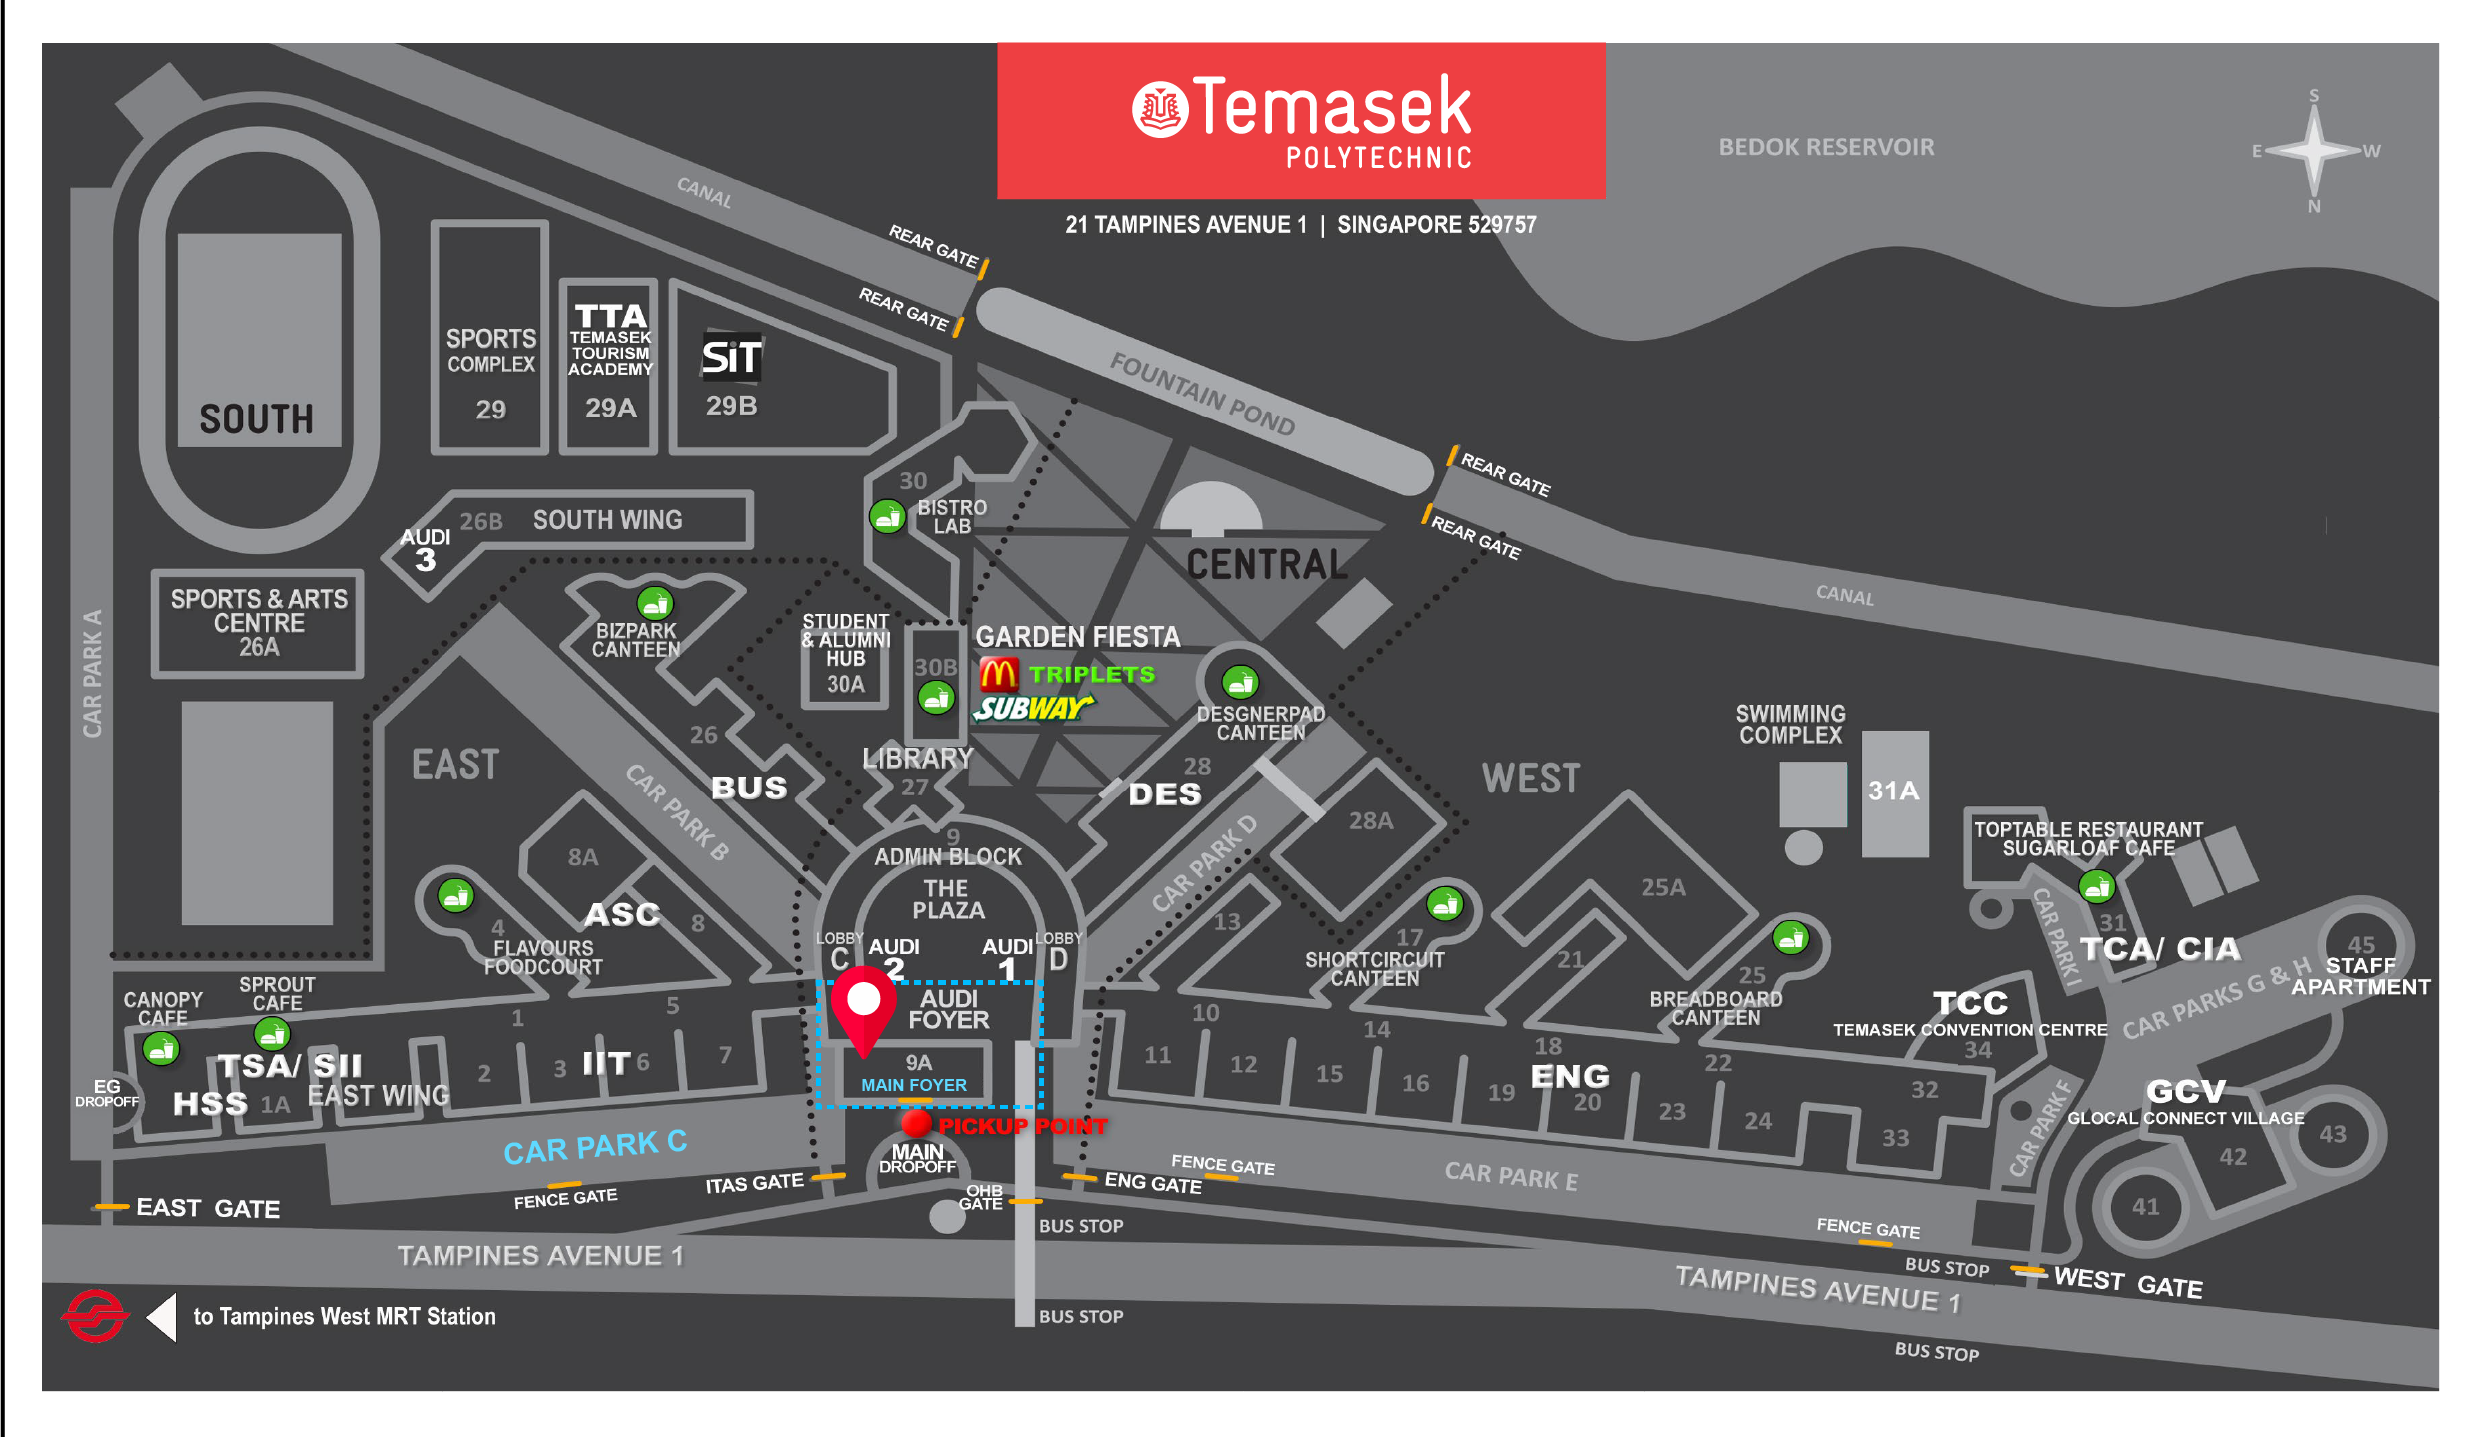
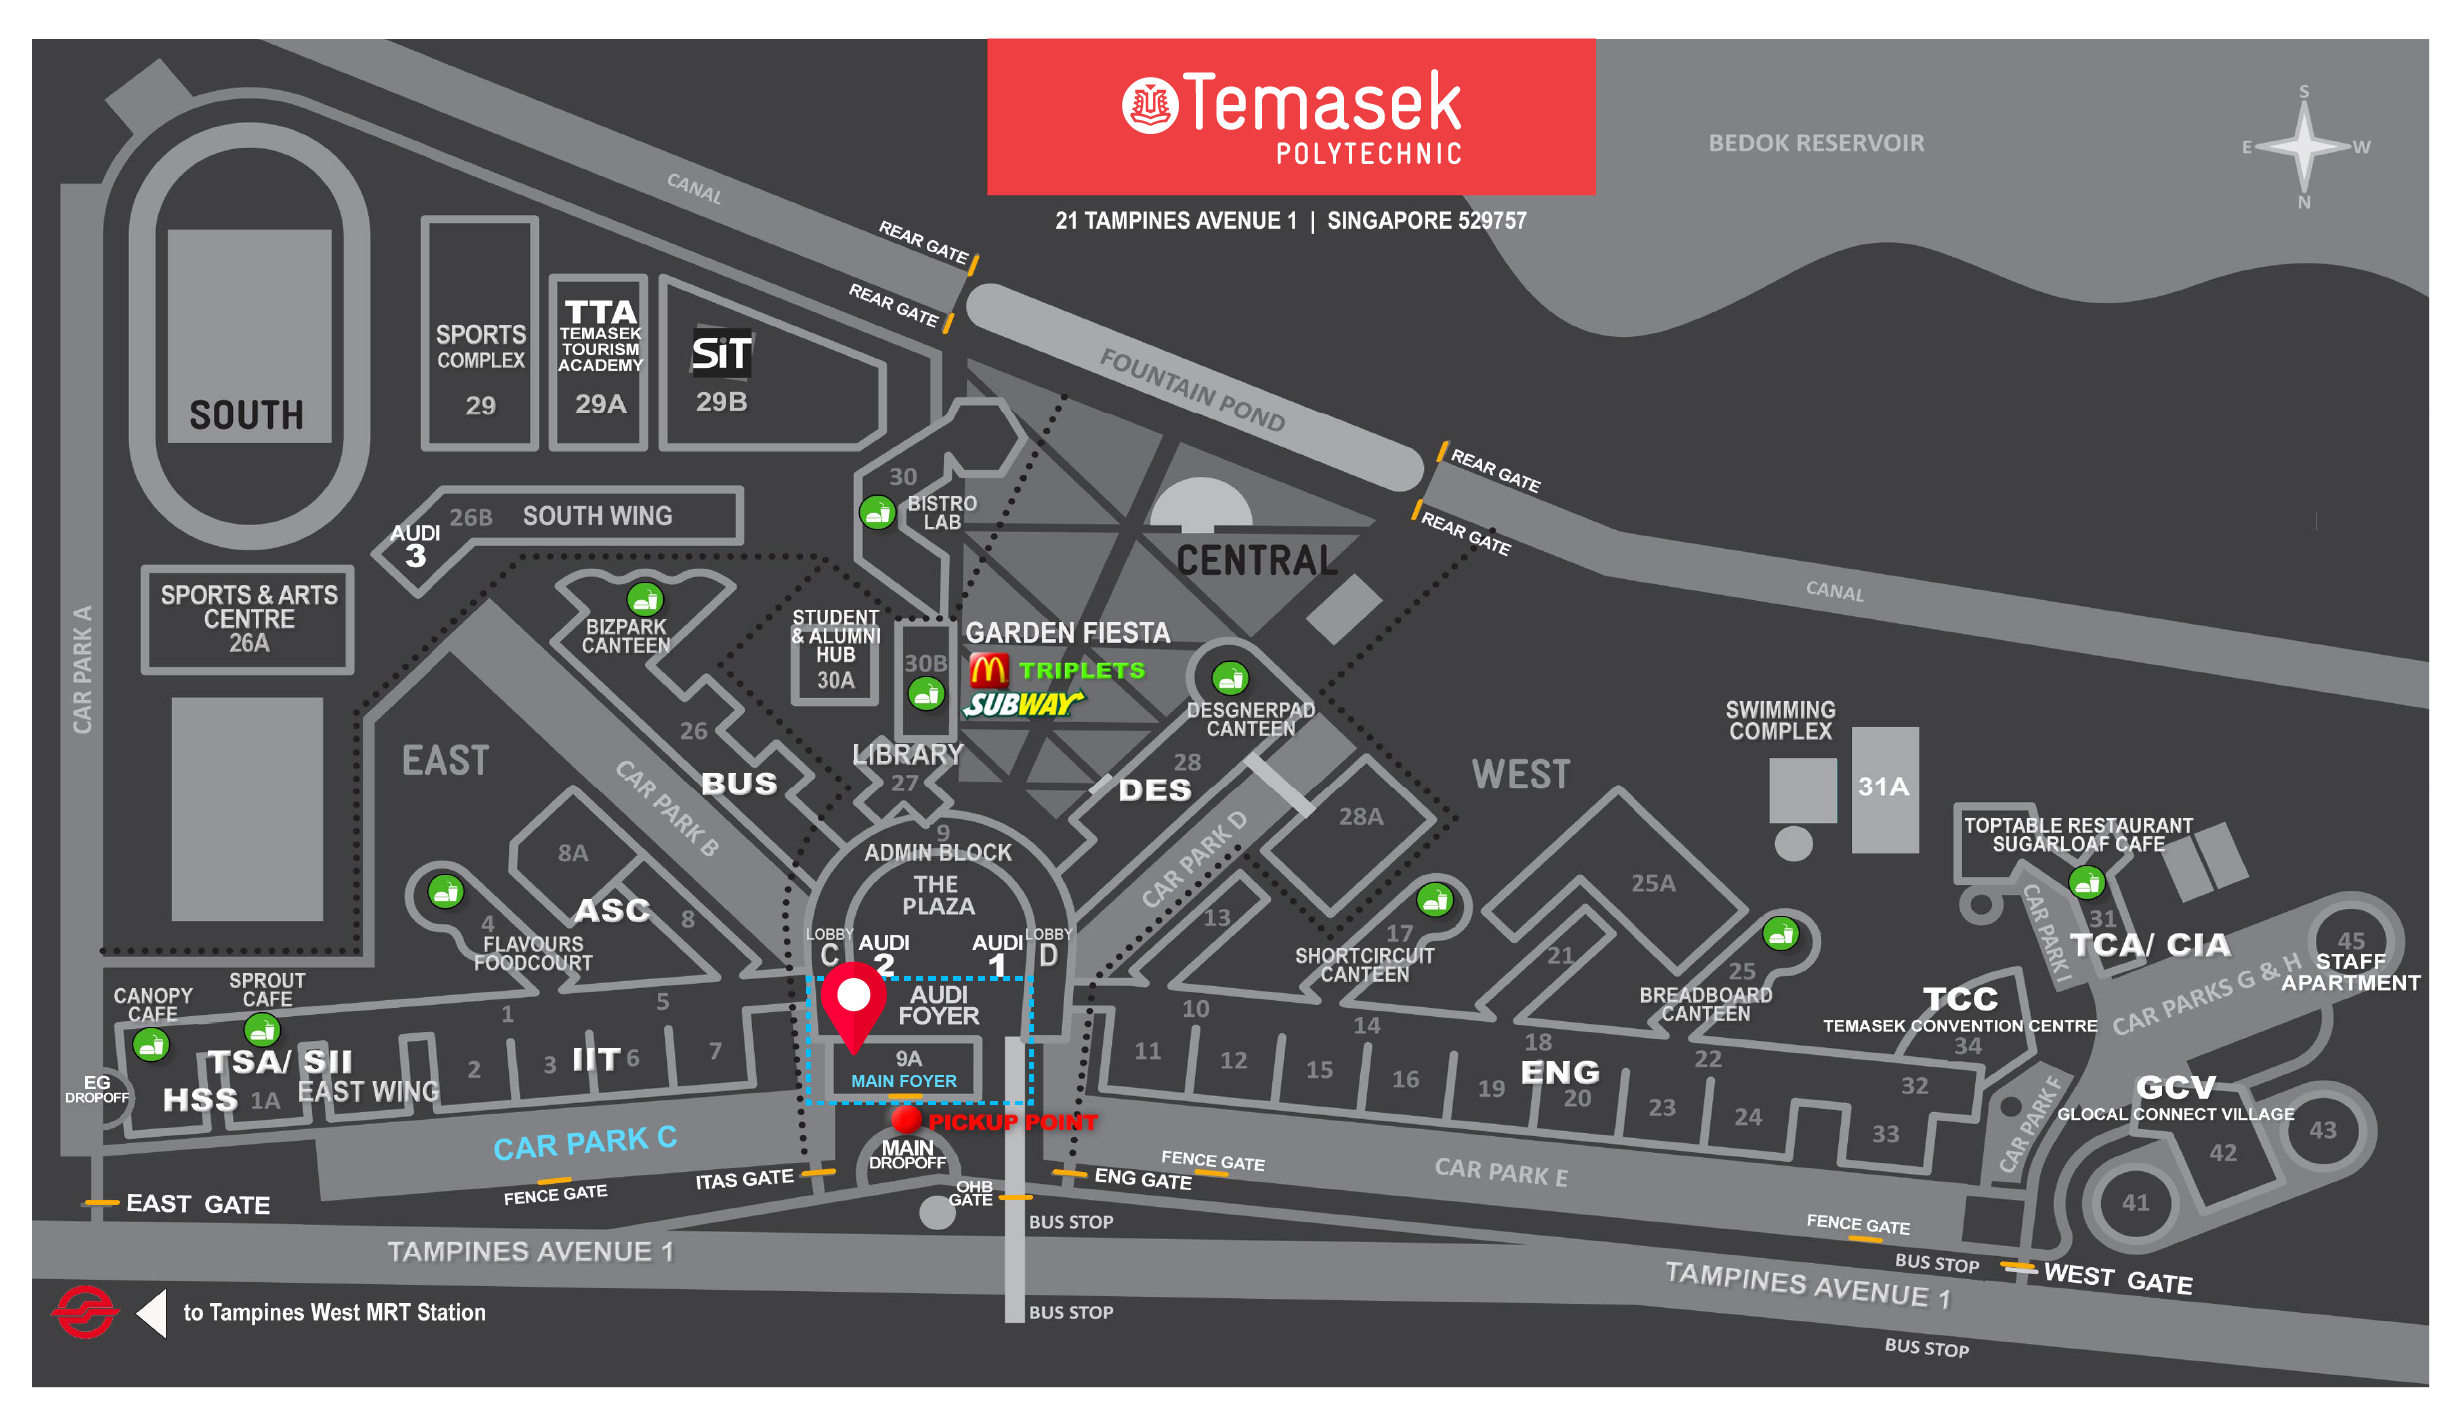
rounded the buttons in home page and direction page, cropped the tp-map, removed the seminar page and removed the opening sequence

diff --git a/js/navbar.js b/js/navbar.js
@@ -3,7 +3,6 @@ window.addEventListener("load", function () {
     <div class="menu">
       <p class="navbarP"><a class="navbarA" href="../index.html" >Home</a></p>
       <p class="navbarP"><a class="navbarA" href="../pages/project.html" >Projects</a></p>
-      <p class="navbarP"><a class="navbarA" href="../pages/seminar.html" >Seminars</a></p>
       <p class="navbarP"><a class="navbarA" href="https://forms.office.com/r/CwyyHHLfag" target="_blank">Project Voting</a></p>
       <p class="navbarP"><a class="navbarA" href="../pages/direction.html">Getting to TP</a></p>
       <p class="navbarP"><a class="navbarA" href="../pages/iit_courses.html" id="iit-courses-link">IIT Courses</a></p>

diff --git a/index.html b/index.html
@@ -38,11 +38,11 @@
   </head>
 
   <body>
-    <!-- Opening Sequence -->
+    <!-- Opening Sequence
     <div id="opening-sequence">
       <div id="main-title">TP InfoTech Day 2025</div>
       <div id="sub-title">Creating Tomorrow's Solutions Today</div>
-    </div>
+    </div> -->
     <!-- NAV -->
     <header>
       <h1>TP InfoTech Day 2025</h1>
@@ -80,8 +80,8 @@
     </div>
     <div class="event-info">
       <p class="event-info">
-        <span>23 January (Thurs) |</span>
-        <span>3PM - 9PM |</span>
+        <span>23 January (Thurs)  |</span>
+        <span> 3pm - 9pm  |</span>
         <span>TP Main Foyer & </span>
         <span>Auditorium 1 & 2</span>
       </p>

diff --git a/css/homePage.css b/css/homePage.css
@@ -117,7 +117,7 @@ h2 {
     font-weight: 1000;
     border: none;
     cursor: pointer;
-    border-radius: 5px;
+    border-radius: 30px;
     text-transform: uppercase;
     width: 280px;
     max-width: 100%;

diff --git a/css/directionPage.css b/css/directionPage.css
@@ -57,7 +57,7 @@ h2 {
     font-size: 22px;
     border: none;
     cursor: pointer;
-    border-radius: 5px;
+    border-radius: 20px;
 }
 
 .car-button {
